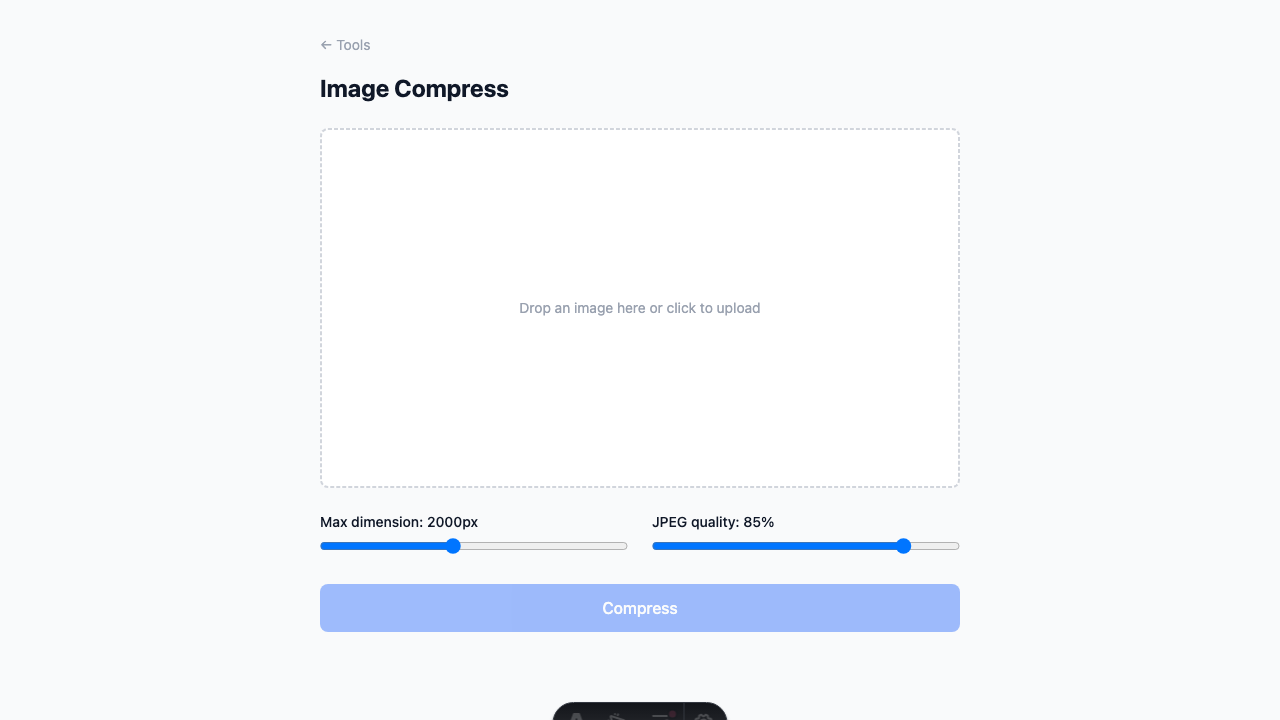
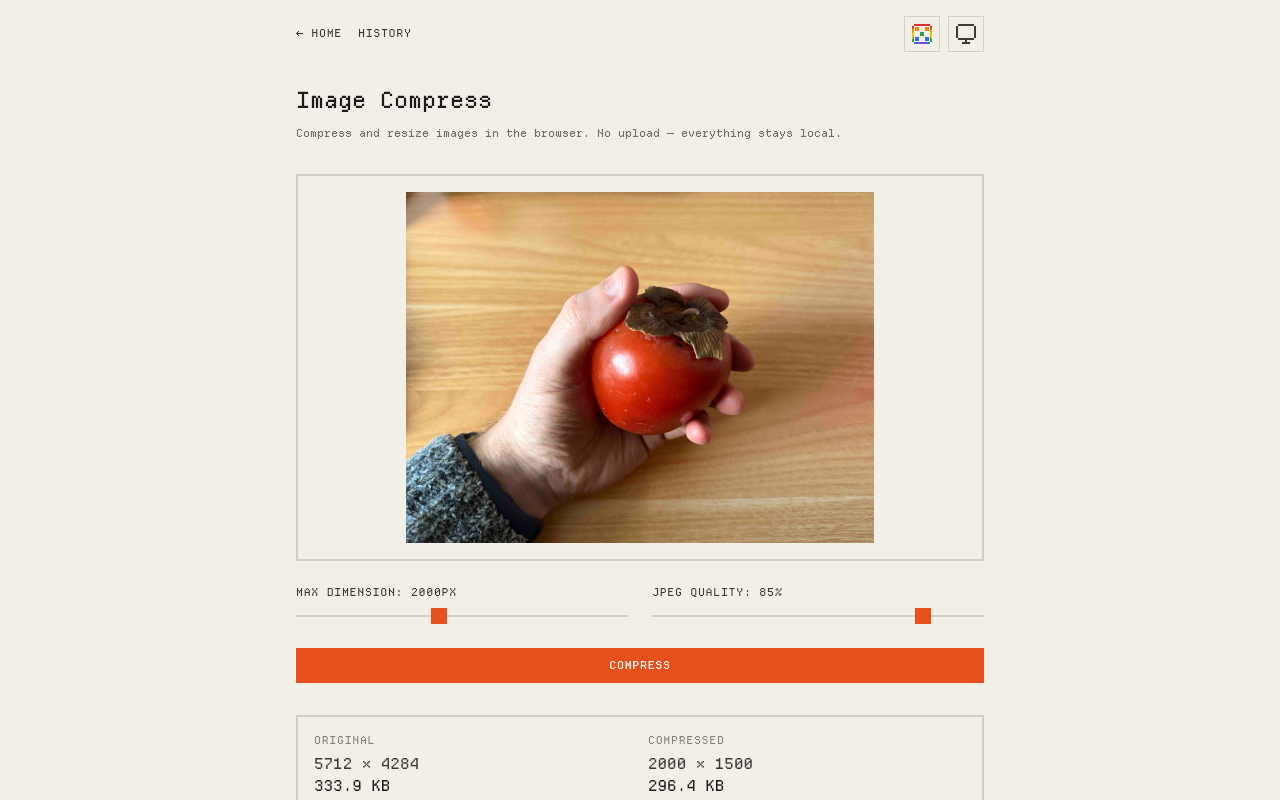
feat(image-compress): the tool sits on PixelAppLayout and draws its drop zone, sliders and result from the pixel kit (#84)
- **The page's own nav, back link, history link and theme toggle are gone**
  - PixelAppLayout's app bar provides all four, so `App` no longer takes `historyUrl`
- **The drop zone is `<FileDrop>` and the sliders are `.pixel-range`**
  - the zone was a `div` that clicked a hidden input by id; a `<label>` around the input picks, drops and takes keyboard focus without that indirection
  - each slider's caption is now its `<label>`, so the slider has an accessible name
- **Colours come from tokens**
  - the saving reads in `ok`, where it was Tailwind green; Compress and Download are primary buttons
- **The sliders stack below 640px**
  - two uppercase pixel-type captions side by side don't fit a 390px phone
- **The works card dithers as `image`**
  - the screenshot is mostly the chosen photo

Changed region(s): [[0.2188, 0.2139, 0.7812, 1.0], [0.2188, 0.0306, 0.6562, 0.1833], [0.6875, 0.0306, 0.7812, 0.0611]]

diff --git a/src/pages/image-compress/_app/app.jsx b/src/pages/image-compress/_app/app.jsx
@@ -1,6 +1,9 @@
 import React, { useState, useCallback } from 'react';
 import { createRoot } from 'react-dom/client';
-import { ThemeToggle } from '../../../components/ThemeToggle.jsx';
+import imageIcon from 'pixelarticons/svg/image.svg?raw';
+import downloadIcon from 'pixelarticons/svg/download.svg?raw';
+import { FileDrop } from '../../../components/pixel/FileDrop.jsx';
+import { Icon } from '../../../components/pixel/Icon.jsx';
 
 const MAX_DIM_DEFAULT = 2000;
 const QUALITY_DEFAULT = 85;
@@ -46,7 +49,15 @@ function formatSize(bytes) {
   return (bytes / (1024 * 1024)).toFixed(2) + ' MB';
 }
 
-export function App({ historyUrl }) {
+const Stat = ({ label, width, height, size }) => (
+  <div>
+    <div className="label opacity-60 mb-1">{label}</div>
+    <div className="pixel-num">{width} × {height}</div>
+    <div className="pixel-num text-heading">{formatSize(size)}</div>
+  </div>
+);
+
+export function App() {
   const [file, setFile] = useState(null);
   const [preview, setPreview] = useState(null);
   const [result, setResult] = useState(null);
@@ -59,11 +70,6 @@ export function App({ historyUrl }) {
     setFile(f);
     setPreview(URL.createObjectURL(f));
     setResult(null);
-  };
-
-  const handleDrop = (e) => {
-    e.preventDefault();
-    handleFile(e.dataTransfer.files?.[0]);
   };
 
   const handleCompress = useCallback(async () => {
@@ -84,132 +90,81 @@ export function App({ historyUrl }) {
   };
 
   return (
-    <div className="min-h-screen bg-gray-50 dark:bg-gray-900 text-gray-900 dark:text-gray-100">
-      <div className="max-w-2xl mx-auto px-4 py-8">
-        <nav className="flex items-center gap-3 text-sm text-gray-400">
-          <a
-            href="../"
-            className="inline-flex items-center gap-1 hover:text-gray-600 dark:hover:text-gray-300 transition-colors"
-          >
-            ← Home
-          </a>
-          {historyUrl && (
-            <a
-              href={historyUrl}
-              target="_blank"
-              rel="noopener"
-              className="hover:text-gray-600 dark:hover:text-gray-300 transition-colors"
-            >
-              history
-            </a>
-          )}
-          <ThemeToggle className="ml-auto" />
-        </nav>
+    <div className="text-text">
+      <h1 className="page-title mt-4 mb-2">Image Compress</h1>
+      <p className="page-sub mt-0 mb-8">Compress and resize images in the browser. No upload — everything stays local.</p>
 
-        <h1 className="text-2xl font-bold mt-4 mb-6">Image Compress</h1>
+      <FileDrop accept="image/*" onFiles={(files) => handleFile(files[0])} className="aspect-video overflow-hidden mb-6">
+        {preview ? (
+          <img src={preview} alt="Original" className="w-full h-full min-h-0 object-contain" />
+        ) : (
+          <>
+            <Icon svg={imageIcon} className="w-8 h-8" />
+            <span>Drop an image here or click to upload</span>
+          </>
+        )}
+      </FileDrop>
 
-        {/* Drop zone */}
-        <div
-          onDrop={handleDrop}
-          onDragOver={(e) => e.preventDefault()}
-          onClick={() => document.getElementById('file-input').click()}
-          className="border-2 border-dashed border-gray-300 dark:border-gray-600 rounded-lg overflow-hidden aspect-video flex items-center justify-center bg-white dark:bg-gray-800 hover:border-gray-400 dark:hover:border-gray-500 transition-colors cursor-pointer mb-6"
-        >
-          {preview ? (
-            <img src={preview} alt="Original" className="w-full h-full object-contain" />
-          ) : (
-            <span className="text-gray-400 text-sm text-center px-4">
-              Drop an image here or click to upload
-            </span>
-          )}
+      <div className="grid grid-cols-1 sm:grid-cols-2 gap-6 mb-6">
+        <div>
+          <label htmlFor="max-dim" className="label block mb-2">Max dimension: {maxDim}px</label>
           <input
-            id="file-input"
-            type="file"
-            accept="image/*"
-            className="hidden"
-            onChange={(e) => handleFile(e.target.files?.[0])}
+            id="max-dim"
+            type="range"
+            min="500"
+            max="4000"
+            step="100"
+            value={maxDim}
+            onChange={(e) => setMaxDim(Number(e.target.value))}
+            className="pixel-range"
           />
         </div>
-
-        {/* Controls */}
-        <div className="grid grid-cols-2 gap-6 mb-6">
-          <div>
-            <label className="block text-sm font-medium mb-1">
-              Max dimension: {maxDim}px
-            </label>
-            <input
-              type="range"
-              min="500"
-              max="4000"
-              step="100"
-              value={maxDim}
-              onChange={(e) => setMaxDim(Number(e.target.value))}
-              className="w-full"
-            />
-          </div>
-          <div>
-            <label className="block text-sm font-medium mb-1">
-              JPEG quality: {quality}%
-            </label>
-            <input
-              type="range"
-              min="10"
-              max="100"
-              step="5"
-              value={quality}
-              onChange={(e) => setQuality(Number(e.target.value))}
-              className="w-full"
-            />
-          </div>
+        <div>
+          <label htmlFor="quality" className="label block mb-2">JPEG quality: {quality}%</label>
+          <input
+            id="quality"
+            type="range"
+            min="10"
+            max="100"
+            step="5"
+            value={quality}
+            onChange={(e) => setQuality(Number(e.target.value))}
+            className="pixel-range"
+          />
         </div>
-
-        <button
-          disabled={!file || compressing}
-          onClick={handleCompress}
-          className="w-full py-3 px-6 rounded-lg font-medium text-white bg-blue-600 hover:bg-blue-700 disabled:opacity-40 disabled:cursor-not-allowed transition-colors mb-6"
-        >
-          {compressing ? 'Compressing...' : 'Compress'}
-        </button>
-
-        {/* Result */}
-        {result && (
-          <div className="bg-white dark:bg-gray-800 rounded-lg p-6 space-y-4">
-            <div className="grid grid-cols-2 gap-4 text-sm">
-              <div>
-                <div className="text-gray-400 mb-1">Original</div>
-                <div>{result.originalWidth} × {result.originalHeight}</div>
-                <div className="font-medium">{formatSize(result.originalSize)}</div>
-              </div>
-              <div>
-                <div className="text-gray-400 mb-1">Compressed</div>
-                <div>{result.width} × {result.height}</div>
-                <div className="font-medium">{formatSize(result.size)}</div>
-              </div>
-            </div>
-
-            <div className="text-sm">
-              <span className="text-green-500 font-medium">
-                {((1 - result.size / result.originalSize) * 100).toFixed(1)}% smaller
-              </span>
-            </div>
-
-            {/* Preview */}
-            <div className="border border-gray-200 dark:border-gray-700 rounded-lg overflow-hidden">
-              <img src={result.url} alt="Compressed" className="w-full" />
-            </div>
-
-            <button
-              onClick={handleDownload}
-              className="w-full py-3 px-6 rounded-lg font-medium text-white bg-green-600 hover:bg-green-700 transition-colors"
-            >
-              Download
-            </button>
-          </div>
-        )}
       </div>
+
+      <button
+        disabled={!file || compressing}
+        onClick={handleCompress}
+        className="pixel-button w-full py-2 mb-8"
+        data-variant="primary"
+      >
+        {compressing ? 'Compressing...' : 'Compress'}
+      </button>
+
+      {result && (
+        <div className="pixel-panel p-4 flex flex-col gap-4">
+          <div className="grid grid-cols-2 gap-4">
+            <Stat label="Original" width={result.originalWidth} height={result.originalHeight} size={result.originalSize} />
+            <Stat label="Compressed" width={result.width} height={result.height} size={result.size} />
+          </div>
+
+          <p className="pixel-num text-ok">
+            {((1 - result.size / result.originalSize) * 100).toFixed(1)}% smaller
+          </p>
+
+          <img src={result.url} alt="Compressed" className="pixel-panel w-full" />
+
+          <button onClick={handleDownload} className="pixel-button w-full py-2 flex items-center justify-center gap-2" data-variant="primary">
+            <Icon svg={downloadIcon} className="w-4 h-4" />
+            Download
+          </button>
+        </div>
+      )}
     </div>
   );
 }
 
 const mount = document.getElementById('app');
-if (mount) createRoot(mount).render(<App historyUrl={mount.dataset.historyUrl} />);
+if (mount) createRoot(mount).render(<App />);
